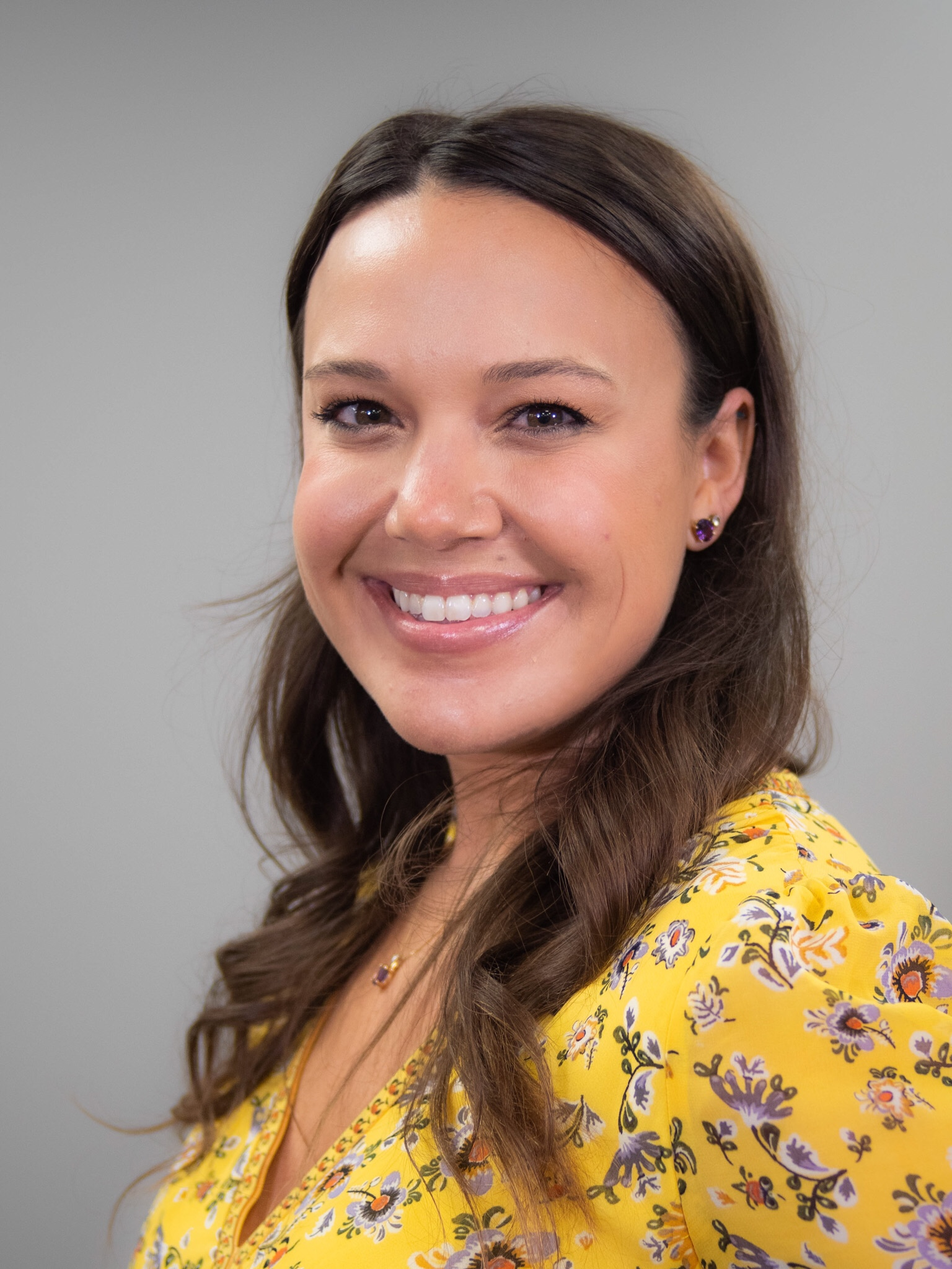
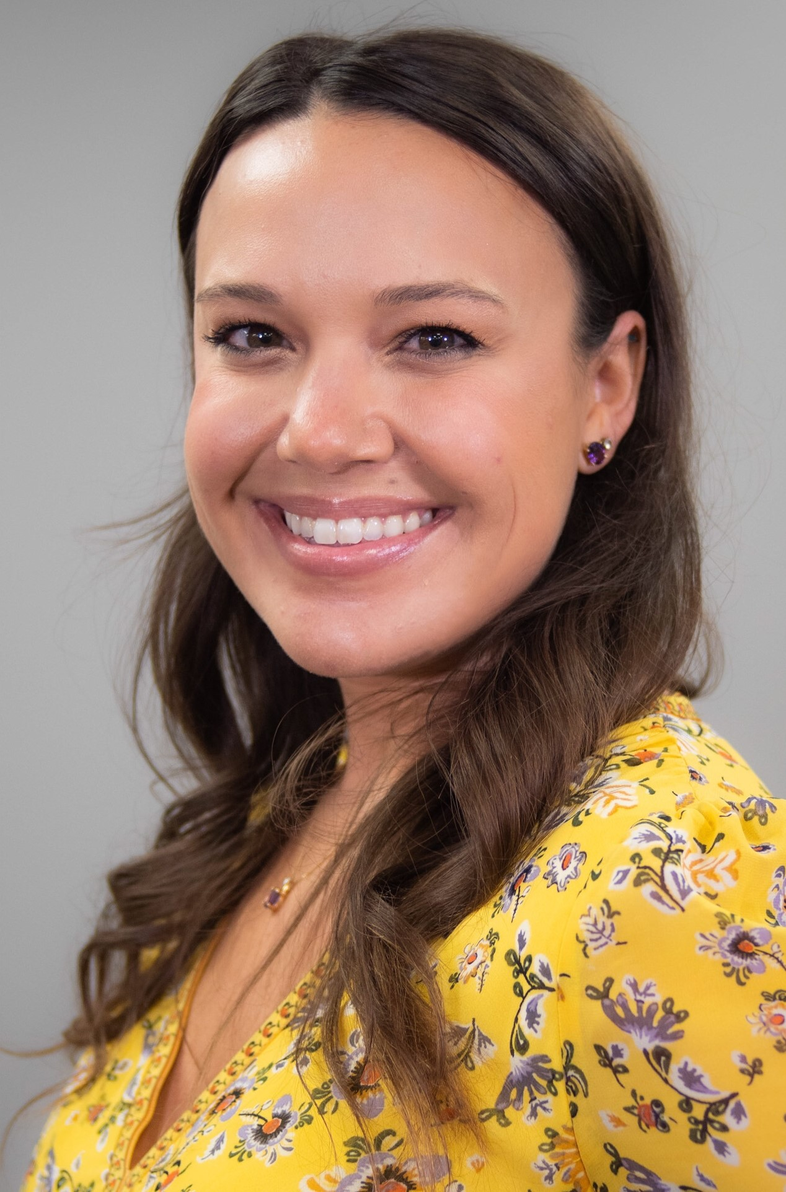
resized headshot image

diff --git a/src/components/About.jsx b/src/components/About.jsx
@@ -1,5 +1,5 @@
 import '../styles/about.css'
-import headshot from '../assets/headshot.JPG'
+import headshot from '../assets/headshot_2.jpg'
 
 export default function About() {
     return (

diff --git a/README.md b/README.md
@@ -14,7 +14,7 @@ N/A
 
 ## Usage
 
-![Application Screenshot](./src/assets/Screenshot%202023-07-31%20205951.png)
+![Application Screenshot](/assets/App.png)
 
 Use the navigation in the top left-hand corner of the application to view each page. Use the contact tab to submit a messsage directly to me, or use the resume tab to download a copy of my resume. 
 
